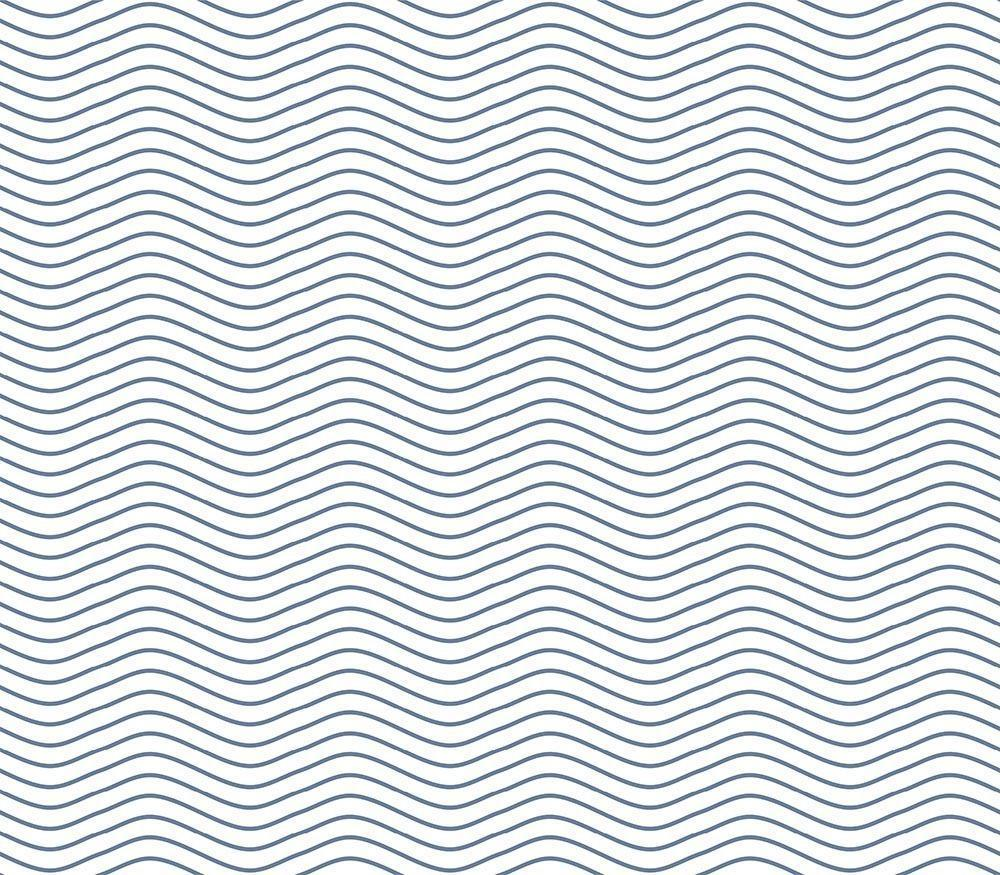
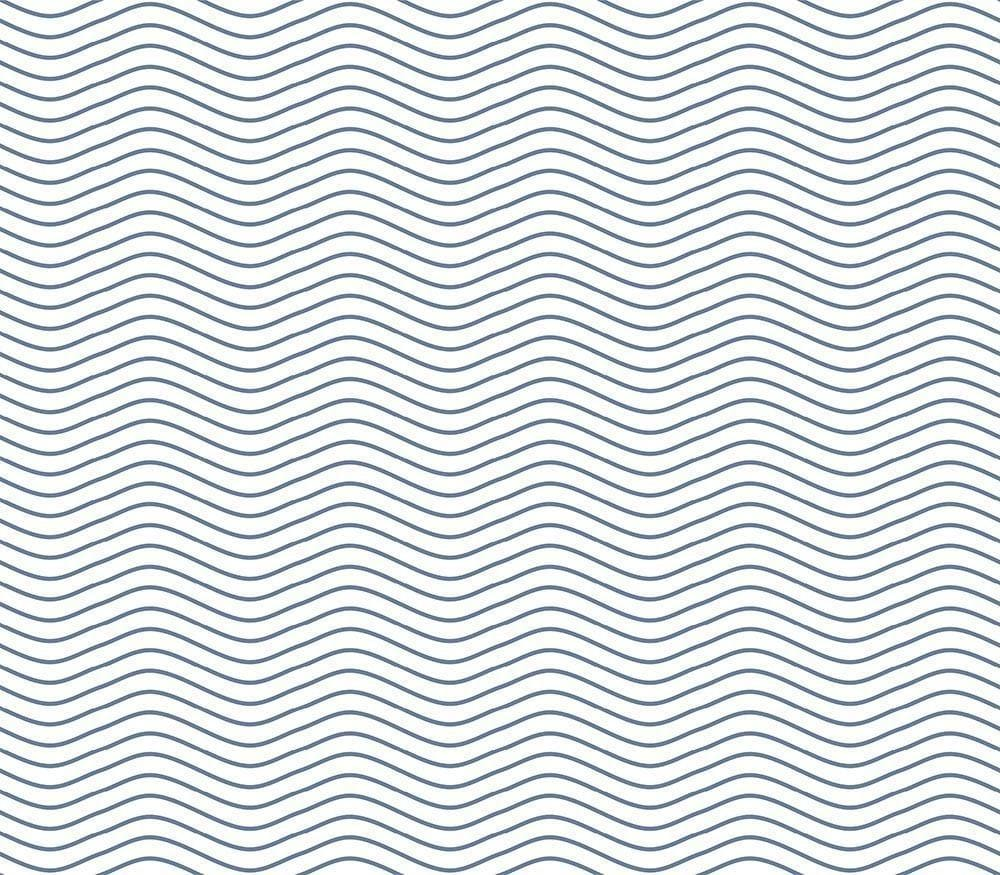
vercel fixes and image compressions

diff --git a/app/blog/[slug]/layout.tsx b/app/blog/[slug]/layout.tsx
@@ -1,19 +1,21 @@
 import type { Metadata } from 'next'
 import React from 'react'
 
-export function generateMetadata({ params }: { params: { slug: string } }): Metadata {
-  const titleBase = params.slug?.toString().replace(/-/g, ' ')
-  const formattedTitle = titleBase
-    ? `${titleBase.charAt(0).toUpperCase()}${titleBase.slice(1)} – UISora Blog`
-    : 'Blog Post – UISora'
-  const description = 'Insights on AI-assisted UI design, mobile UX, and product building.'
+export async function generateMetadata(
+  { params }: { params: Promise<{ slug: string }> }
+): Promise<Metadata> {
+  const { slug } = await params
+
+  const titleBase = slug.replace(/-/g, ' ')
+  const formattedTitle = `${titleBase.charAt(0).toUpperCase()}${titleBase.slice(1)} – UISora Blog`
+
   return {
     title: formattedTitle,
-    description,
-    alternates: { canonical: `/blog/${params.slug}` },
+    description: 'Insights on AI-assisted UI design, mobile UX, and product building.',
+    alternates: { canonical: `/blog/${slug}` },
     openGraph: {
       title: formattedTitle,
-      description,
+      description: 'Insights on AI-assisted UI design, mobile UX, and product building.',
       images: [{ url: '/uisora-gradient.png', width: 1200, height: 630 }],
       type: 'article',
     },
@@ -23,5 +25,3 @@ export function generateMetadata({ params }: { params: { slug: string } }): Meta
 export default function BlogPostLayout({ children }: { children: React.ReactNode }) {
   return children
 }
-
-
